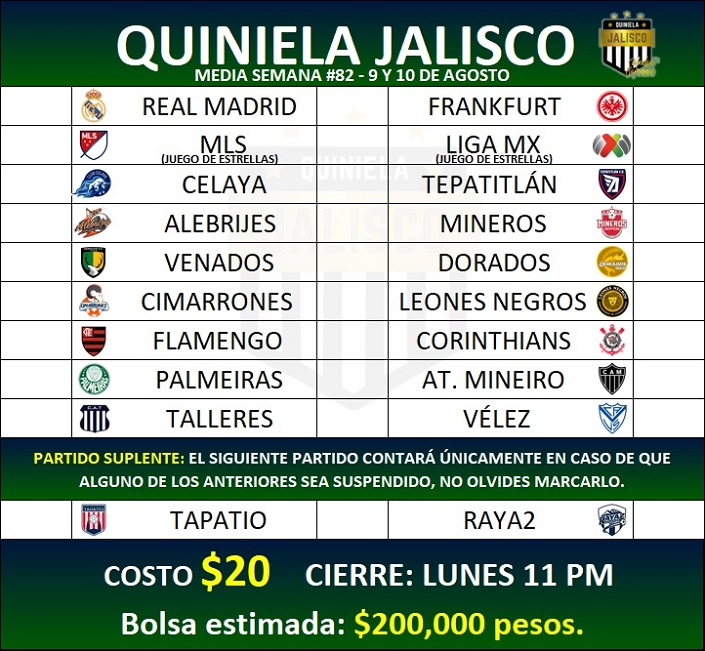
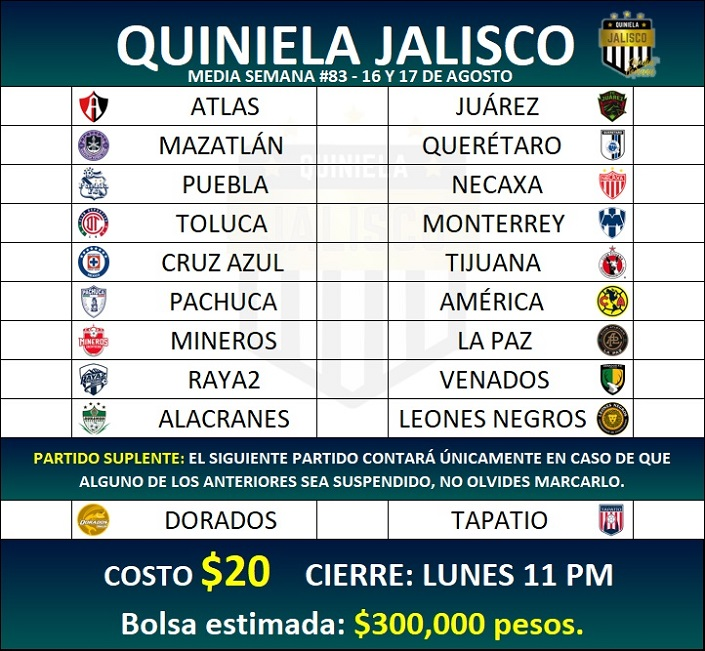
Media Semana #83

diff --git a/MediaSemana/stylesmSusp.css b/MediaSemana/stylesmSusp.css
@@ -93,8 +93,8 @@ body{
     margin-top: 9%;
     border: solid 1px black;
     border-radius: 0 0 14px 14px;
-    background: -webkit-linear-gradient(1turn, rgb(4,27,54)  ,rgb(0,57,30) 80%);
-    background: linear-gradient(1turn, rgb(4,27,54)  ,rgb(0,57,30) 80%);
+    background: -webkit-linear-gradient(1turn, rgb(4,27,54)  ,rgb(0,55,75) 80%);
+    background: linear-gradient(1turn, rgb(4,27,54)  ,rgb(0,55,75) 80%);
 }
 
 .text-lg{
@@ -288,7 +288,7 @@ h6{
 }
 
 #cantidad:before{
-    content:'$200,000 pesos ';
+    content:'$300,000 pesos ';
     color: yellow;
     white-space:pre;
 }
